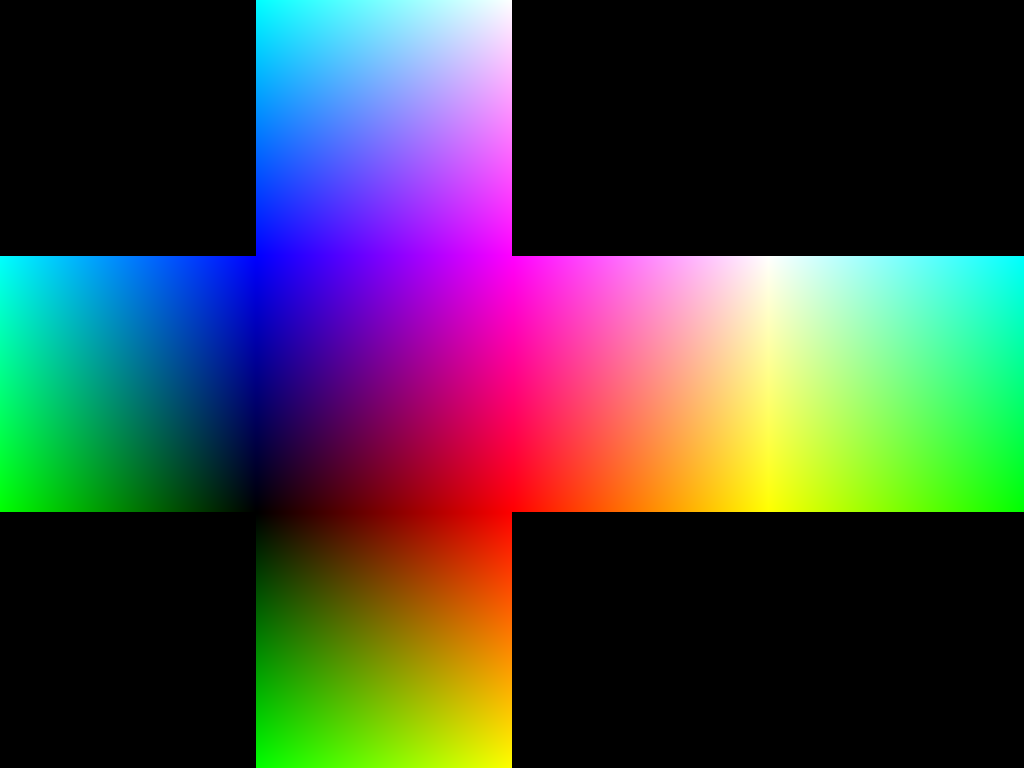
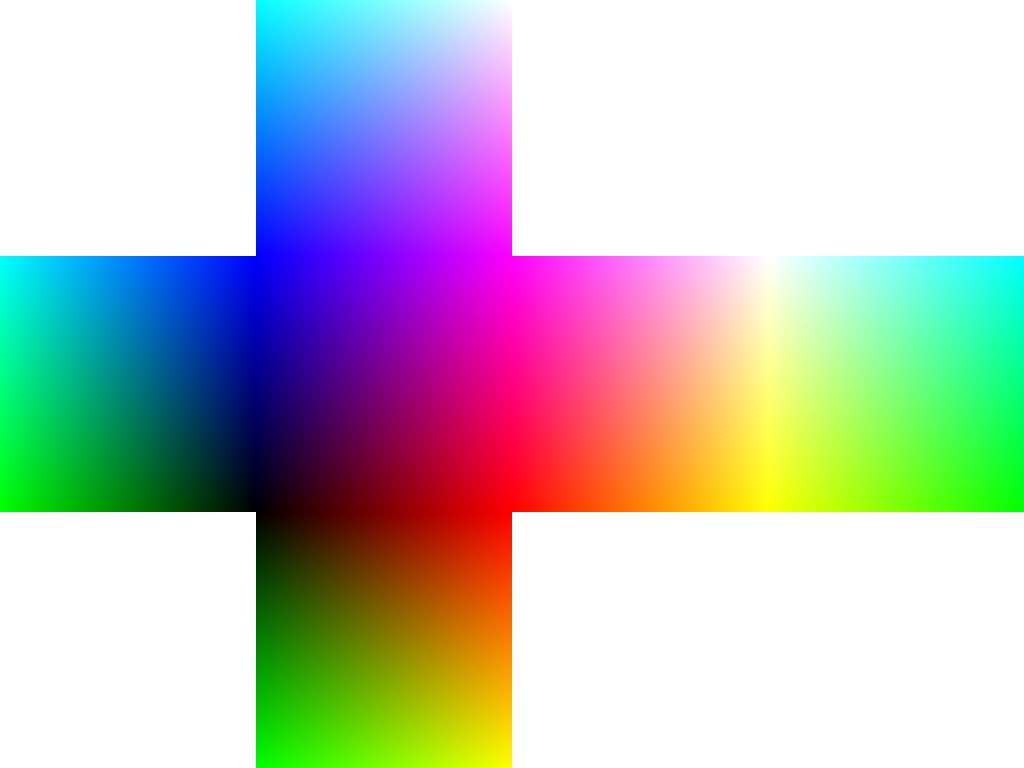
white

diff --git a/gradients/seventh_gradient0.py b/gradients/seventh_gradient0.py
@@ -22,7 +22,7 @@ for i in range(1, len(images)):
 # Create the concatenated image
 total_width = images[0].width * len(images)
 total_height = 3*images[0].height
-concatenated_image = Image.new('RGB', (total_width, total_height))
+concatenated_image = Image.new('RGB', (total_width, total_height), color='white')
 
 # Paste each image in the correct position
 left = 0
